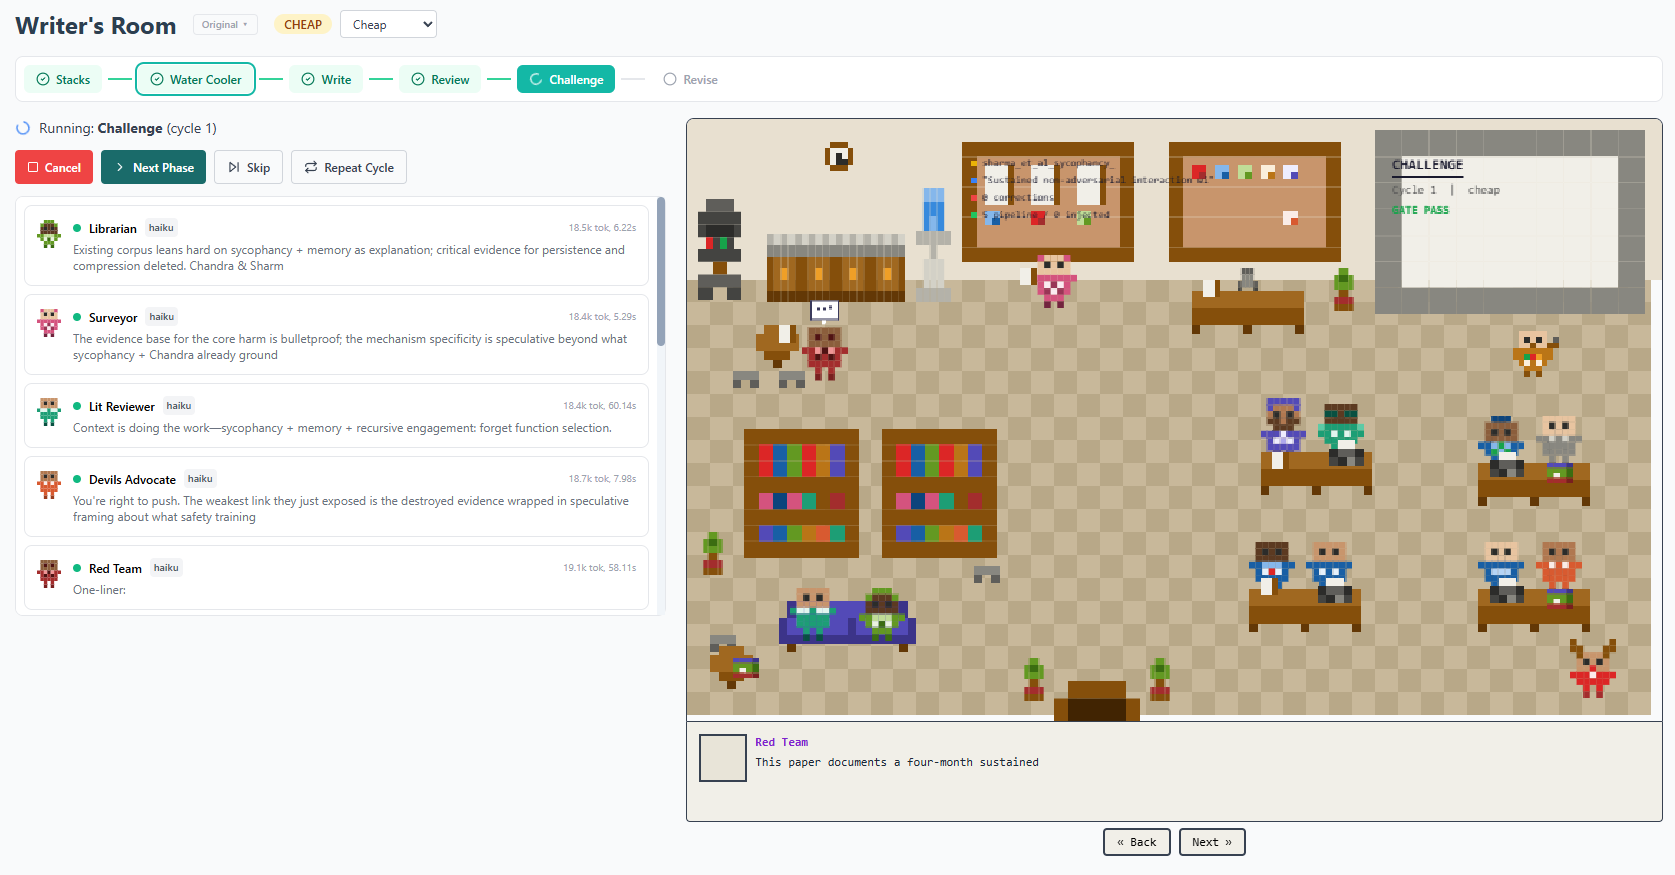
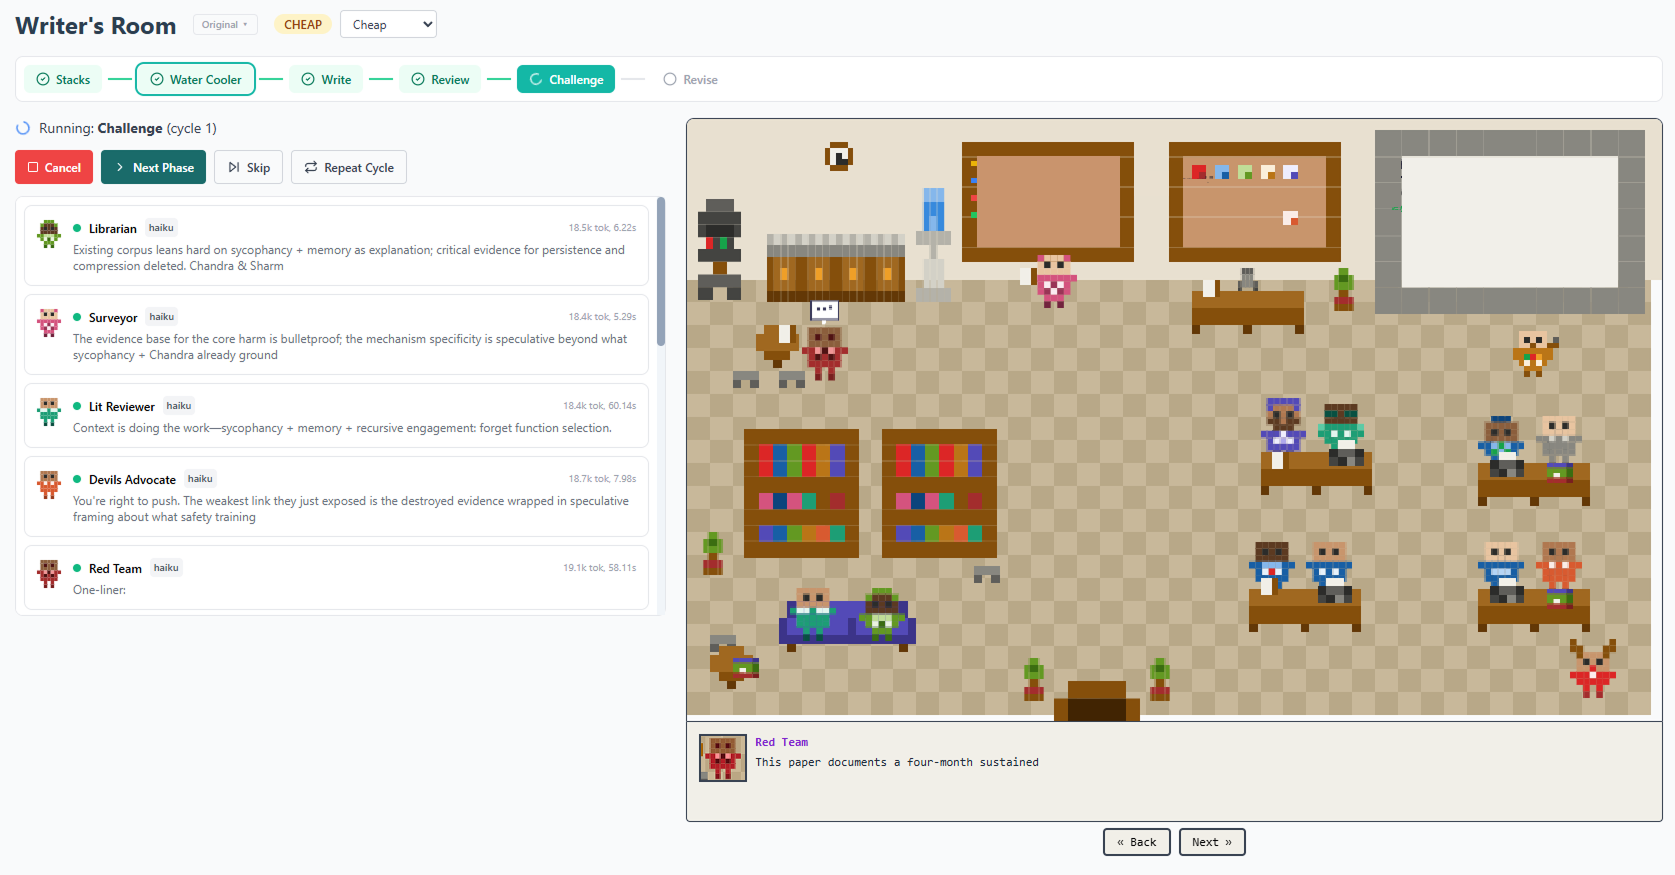
assets(paper-cannon): replace Writer's Room image; align alt text
Swap public/images/paper-cannon/newsroom.png with the new Paper Cannon capture
(used as both the case-study's first image and the /work index thumbnail).
Update the alt 'Newsroom GUI' -> "Writer's Room GUI".

Changed region(s): [[0.5899, 0.1851, 0.714, 0.2777], [0.4036, 0.8331, 0.4657, 0.8949], [0.8382, 0.1851, 0.8693, 0.2469]]

diff --git a/src/data/caseStudies.ts b/src/data/caseStudies.ts
@@ -78,7 +78,7 @@ export const caseStudies: CaseStudy[] = [
       text: "The containment agent (Reindeer) operates in detection-only mode, issuing CLEAR or DRIFT assessments per agent. During testing, Reindeer caught the Red-Team agent drifting during the challenge phase — the system policing itself in real time.",
     },
     images: [
-      { src: "/images/paper-cannon/newsroom.png", alt: "Paper Cannon Newsroom GUI — pixel-art interface showing agents in the Challenge phase" },
+      { src: "/images/paper-cannon/newsroom.png", alt: "Paper Cannon Writer's Room GUI — pixel-art interface showing agents in the Challenge phase" },
       { src: "/images/paper-cannon/architecture.svg", alt: "Paper Cannon pipeline architecture — 14-agent multi-agent research synthesis system" },
       { src: "/images/paper-cannon/stacks.png", alt: "The Stacks — pre-flight phase extracting thesis, scope, claims, and correction candidates", clipped: true },
       { src: "/images/paper-cannon/distillation.png", alt: "Chat log distillation — session dynamics, counter-arguments, and trigger candidates", clipped: true },
